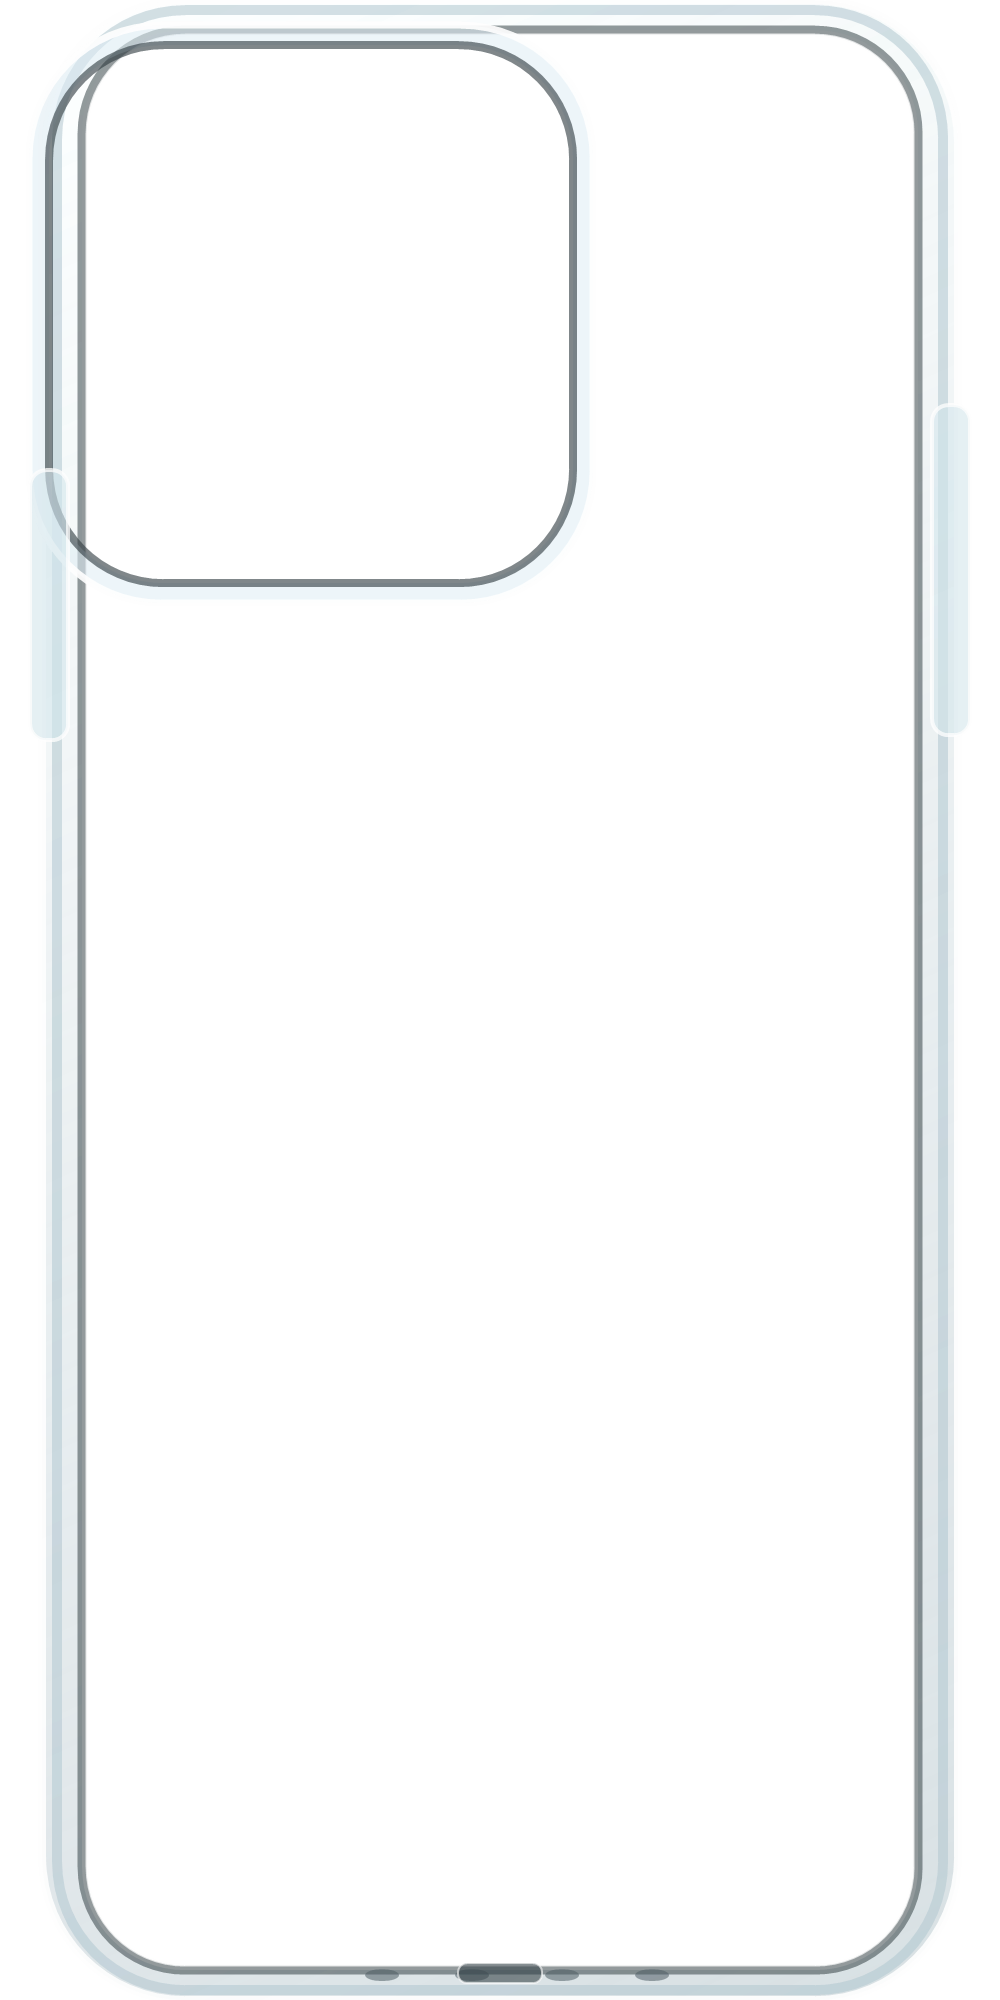
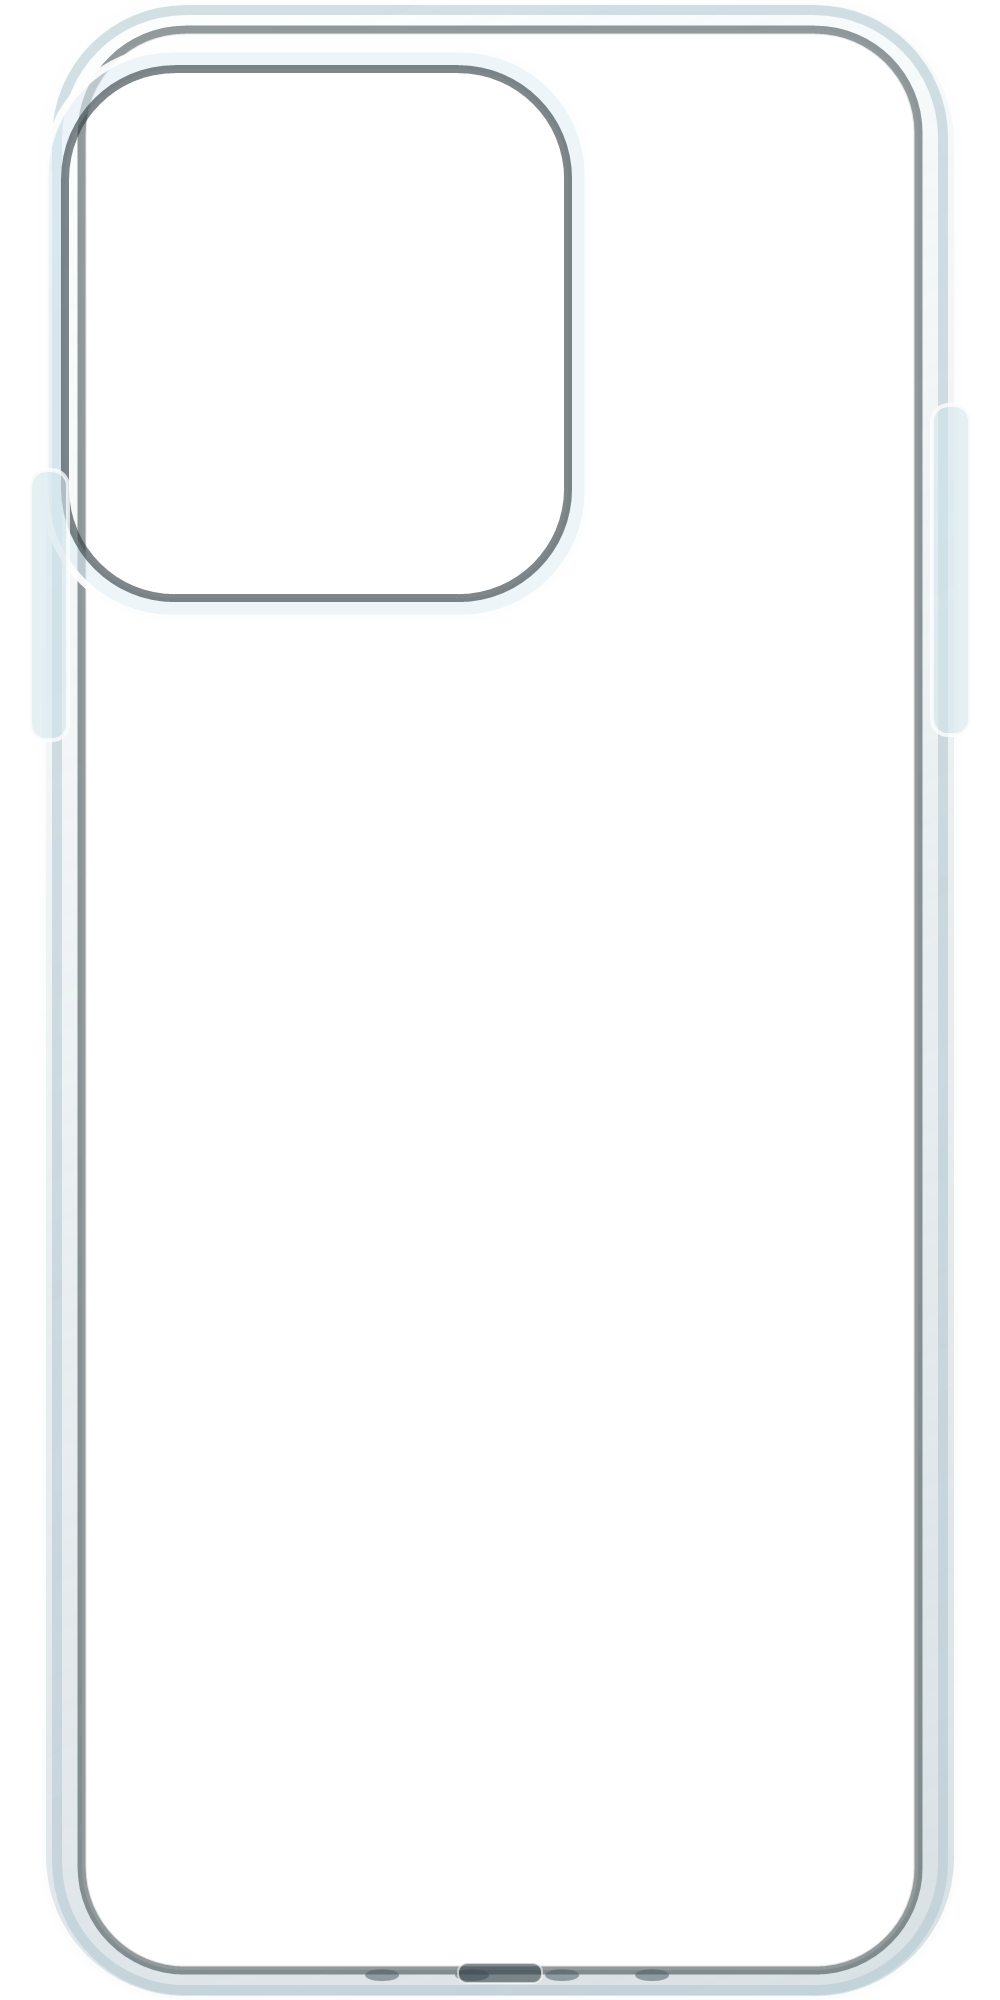
Replace Pro Max mockup with photorealistic asset

Changed region(s): [[0.031, 0.0, 0.589, 0.279], [0.093, 0.248, 0.558, 0.31]]

diff --git a/lib/mockups.ts b/lib/mockups.ts
@@ -1,15 +1,15 @@
 export type CameraLayout='dual-diagonal'|'dual-vertical'|'triple-square'|'triple-wide';
 export type Rect={x:number;y:number;width:number;height:number};
 export type MockupAssets={base:string;caseOverlay:string;printMask:string;cameraMask:string;highlightOverlay:string;shadowOverlay:string};
-export type ModelConfig={slug:string;model:string;width:number;height:number;camera:Rect;safe:number;cameraLayout:CameraLayout;cornerRadius:number;printArea:Rect;safeArea:{top:number;right:number;bottom:number;left:number};previewCrop:Rect;assets:MockupAssets};
+export type ModelConfig={slug:string;model:string;width:number;height:number;camera:Rect;safe:number;cameraLayout:CameraLayout;cornerRadius:number;photorealistic?:boolean;printArea:Rect;safeArea:{top:number;right:number;bottom:number;left:number};previewCrop:Rect;assets:MockupAssets};
 
 const assets=(slug:string):MockupAssets=>({base:`/mockups/${slug}/base.png`,caseOverlay:`/mockups/${slug}/case-overlay.png`,printMask:`/mockups/${slug}/print-mask.png`,cameraMask:`/mockups/${slug}/camera-mask.png`,highlightOverlay:`/mockups/${slug}/highlight-overlay.png`,shadowOverlay:`/mockups/${slug}/shadow-overlay.png`});
-const config=(slug:string,model:string,width:number,height:number,camera:Rect,cameraLayout:CameraLayout,cornerRadius:number):ModelConfig=>({slug,model,width,height,camera,cameraLayout,cornerRadius,safe:70,printArea:{x:.075,y:.012,width:.85,height:.976},safeArea:{top:.035,right:.055,bottom:.045,left:.055},previewCrop:{x:.05,y:0,width:.9,height:1},assets:assets(slug)});
+const config=(slug:string,model:string,width:number,height:number,camera:Rect,cameraLayout:CameraLayout,cornerRadius:number,photorealistic=false):ModelConfig=>({slug,model,width,height,camera,cameraLayout,cornerRadius,photorealistic,safe:70,printArea:{x:.075,y:.012,width:.85,height:.976},safeArea:{top:.035,right:.055,bottom:.045,left:.055},previewCrop:{x:.05,y:0,width:.9,height:1},assets:assets(slug)});
 
 export const modelConfigs:Record<string,ModelConfig>={
  'iphone-17':config('iphone-17','iPhone 17',2.81,5.89,{x:62,y:58,width:492,height:505},'triple-square',112),
  'iphone-17-pro':config('iphone-17-pro','iPhone 17 Pro',2.84,5.91,{x:60,y:56,width:500,height:515},'triple-square',108),
- 'iphone-17-pro-max':config('iphone-17-pro-max','iPhone 17 Pro Max',3.02,6.31,{x:57,y:53,width:508,height:522},'triple-square',105),
+ 'iphone-17-pro-max':config('iphone-17-pro-max','iPhone 17 Pro Max',3.02,6.31,{x:73,y:77,width:487,height:513},'triple-square',105,true),
  'iphone-16':config('iphone-16','iPhone 16',2.78,5.81,{x:70,y:62,width:270,height:505},'dual-vertical',114),
  'iphone-16-pro':config('iphone-16-pro','iPhone 16 Pro',2.81,5.89,{x:60,y:56,width:500,height:515},'triple-square',109),
  'iphone-16-pro-max':config('iphone-16-pro-max','iPhone 16 Pro Max',3.06,6.42,{x:57,y:53,width:508,height:522},'triple-square',104),

diff --git a/components/CaseScene.tsx b/components/CaseScene.tsx
@@ -27,7 +27,9 @@ async function paint(canvas:HTMLCanvasElement,d:Customization,selected:string|un
  ctx.save();ctx.translate(cssW/2,cssH/2);ctx.rotate(f.angle);ctx.transform(1,0,f.skew,1,0,0);ctx.translate(-cssW/2,-cssH/2);
  ctx.shadowColor='rgba(20,24,28,.36)';ctx.shadowBlur=34;ctx.shadowOffsetX=view==='Left'?-13:13;ctx.shadowOffsetY=22;rounded(ctx,f.x-5,f.y-5,f.w+10,f.h+10,radius+8);ctx.fillStyle='rgba(187,198,204,.28)';ctx.fill();ctx.shadowColor='transparent';
  ctx.drawImage(layers.base,f.x,f.y,f.w,f.h);
- ctx.save();rounded(ctx,f.x,f.y,f.w,f.h,radius);ctx.clip();ctx.drawImage(art,f.x,f.y,f.w,f.h);ctx.restore();
+ ctx.save();rounded(ctx,f.x,f.y,f.w,f.h,radius);ctx.clip();
+ if(c.photorealistic){ctx.globalCompositeOperation='multiply';ctx.globalAlpha=.92}
+ ctx.drawImage(art,f.x,f.y,f.w,f.h);ctx.restore();
  ctx.drawImage(layers.shadow,f.x,f.y,f.w,f.h);
  ctx.drawImage(layers.caseOverlay,f.x,f.y,f.w,f.h);
  ctx.drawImage(layers.highlight,f.x,f.y,f.w,f.h);

diff --git a/tests/customizer.test.ts b/tests/customizer.test.ts
@@ -35,7 +35,8 @@ test('phone models use their matching 2.5D camera geometry',()=>{
  assert.equal(modelConfig('iphone-17-pro').cameraLayout,'triple-square');
  assert.equal(modelConfig('iphone-17-pro-max').cameraLayout,'triple-square');
  assert.deepEqual(modelConfig('iphone-17-pro').camera,{x:60,y:56,width:500,height:515});
- assert.deepEqual(modelConfig('iphone-17-pro-max').camera,{x:57,y:53,width:508,height:522});
+ assert.deepEqual(modelConfig('iphone-17-pro-max').camera,{x:73,y:77,width:487,height:513});
+ assert.equal(modelConfig('iphone-17-pro-max').photorealistic,true);
 });
 test('every supported phone owns a complete layered mockup bundle',()=>{
  const files=['base.png','case-overlay.png','print-mask.png','camera-mask.png','highlight-overlay.png','shadow-overlay.png','config.json'];
